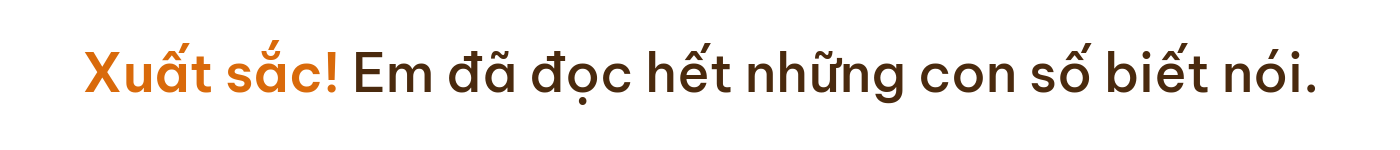
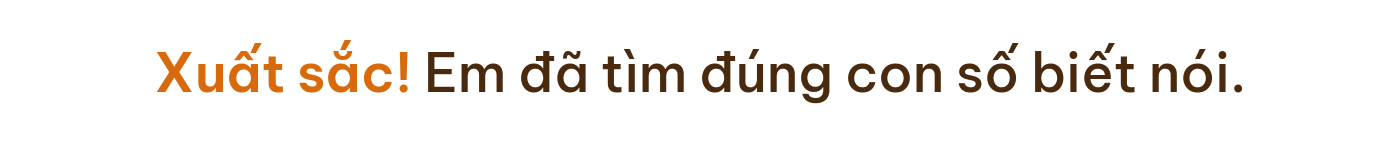
Trò chơi Truy tìm con số: mỗi lượt 1 câu, 45 giây
Rút 1 câu ngẫu nhiên trong 10 câu, đúng thì khen cao nhất, sai hoặc hết giờ thì động viên.
Đổi tên cache service worker để kính đã mở tải bản mới.

Changed region(s): [[0.0614, 0.2667, 0.9521, 0.6933], [0.3993, 0.64, 0.43, 0.6933], [0.2457, 0.2667, 0.2764, 0.2933]]

diff --git a/index.html b/index.html
@@ -28,7 +28,7 @@
 <body>
 <div id="batdau">
   <h1>LĂNG KÍNH VR · GenAct</h1>
-  <p>Phòng triển lãm 10 con số biết nói, kèm trò chơi <b>Truy tìm con số</b> trong 90 giây.<br>
+  <p>Phòng triển lãm 10 con số biết nói, kèm trò chơi <b>Truy tìm con số</b>: mỗi lượt rút 1 câu ngẫu nhiên trong 10 câu, tìm poster có con số đúng trong 45&nbsp;giây.<br>
      Trỏ tia xuống sàn rồi bóp cò để dịch chuyển. Trỏ vào poster rồi bóp cò để chọn.</p>
   <button id="nutVR">VÀO VR</button>
   <button id="nut2D" class="phu">Xem trên màn hình (không kính)</button>
@@ -403,7 +403,7 @@
   }
 
   // ===== Trò chơi "Truy tìm con số" =====
-  var SO_CAU = 5, THOI_GIAN = 90;
+  var SO_CAU = 1, THOI_GIAN = 45;
   var tc = {trangThai:'cho', ds:[], cau:0, diem:0, batDauLuc:0, khoa:false, hetGioLuc:false};
   function tron(a){ for (var i=a.length-1;i>0;i--){ var j=Math.floor(Math.random()*(i+1)); var t=a[i]; a[i]=a[j]; a[j]=t; } return a; }
   function hienLop(ten){
@@ -459,7 +459,7 @@
     hetGio ? keu('het') : keu('xong');
     hetGio_set(hetGio);
     veKet(tc.diem+'/'+SO_CAU);
-    datSrc(khen, tc.diem >= 4 ? 'khen-3' : (tc.diem >= 2 ? 'khen-2' : 'khen-1'));
+    datSrc(khen, tc.diem >= SO_CAU ? 'khen-3' : 'khen-1'); // đúng: khen cao nhất; sai hoặc hết giờ: động viên
     hienLop('ket');
   }
   function hetGio_set(h){ hetGio.setAttribute('visible', !!h); }

diff --git a/sw.js b/sw.js
@@ -1,5 +1,5 @@
 // Lưu sẵn trang, A-Frame, 10 poster và chữ để mở lại khi mất Wi-Fi
-var KHO = 'vr-genact-v2-1';
+var KHO = 'vr-genact-v2-2-1cau';
 var TEP = ['./', './index.html', './lib/aframe.min.js', './manifest.webmanifest', './icon-512.png'];
 ['tieu-de','dong','troi','tro-choi','luat','di-chuyen','nut-bat-dau','nut-choi-lai','nhan-cau','nhan-giay','nhan-diem',
  'dung','sai','ket-qua','het-gio','cau-dung','khen-1','khen-2','khen-3','moi-tham-quan'].forEach(function (t) { TEP.push('./chu/' + t + '.png'); });
